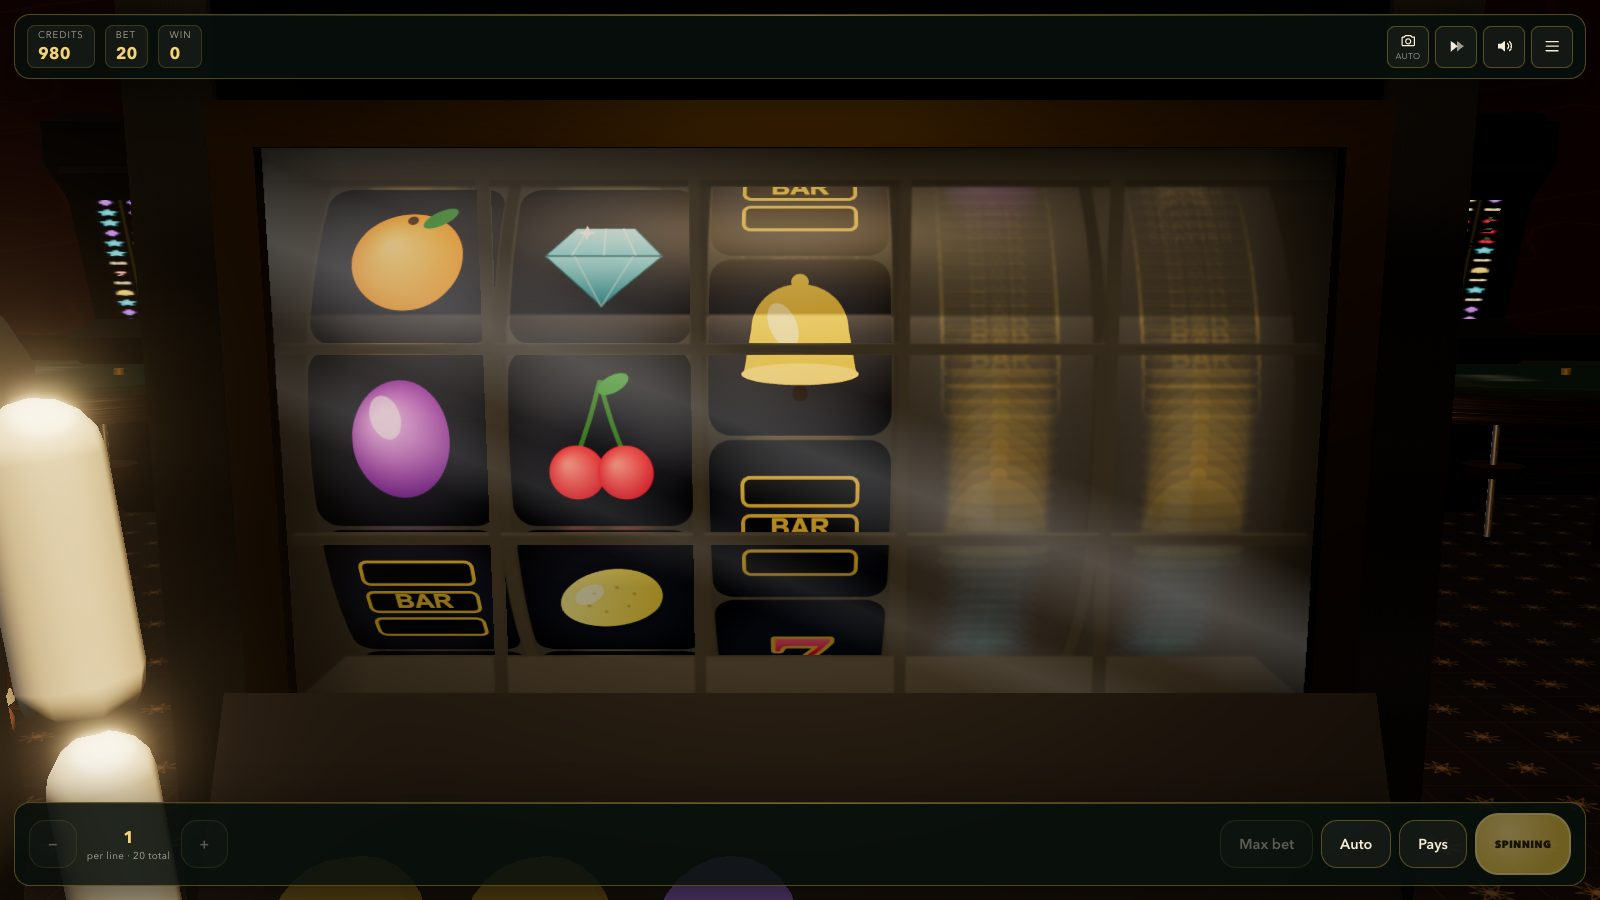
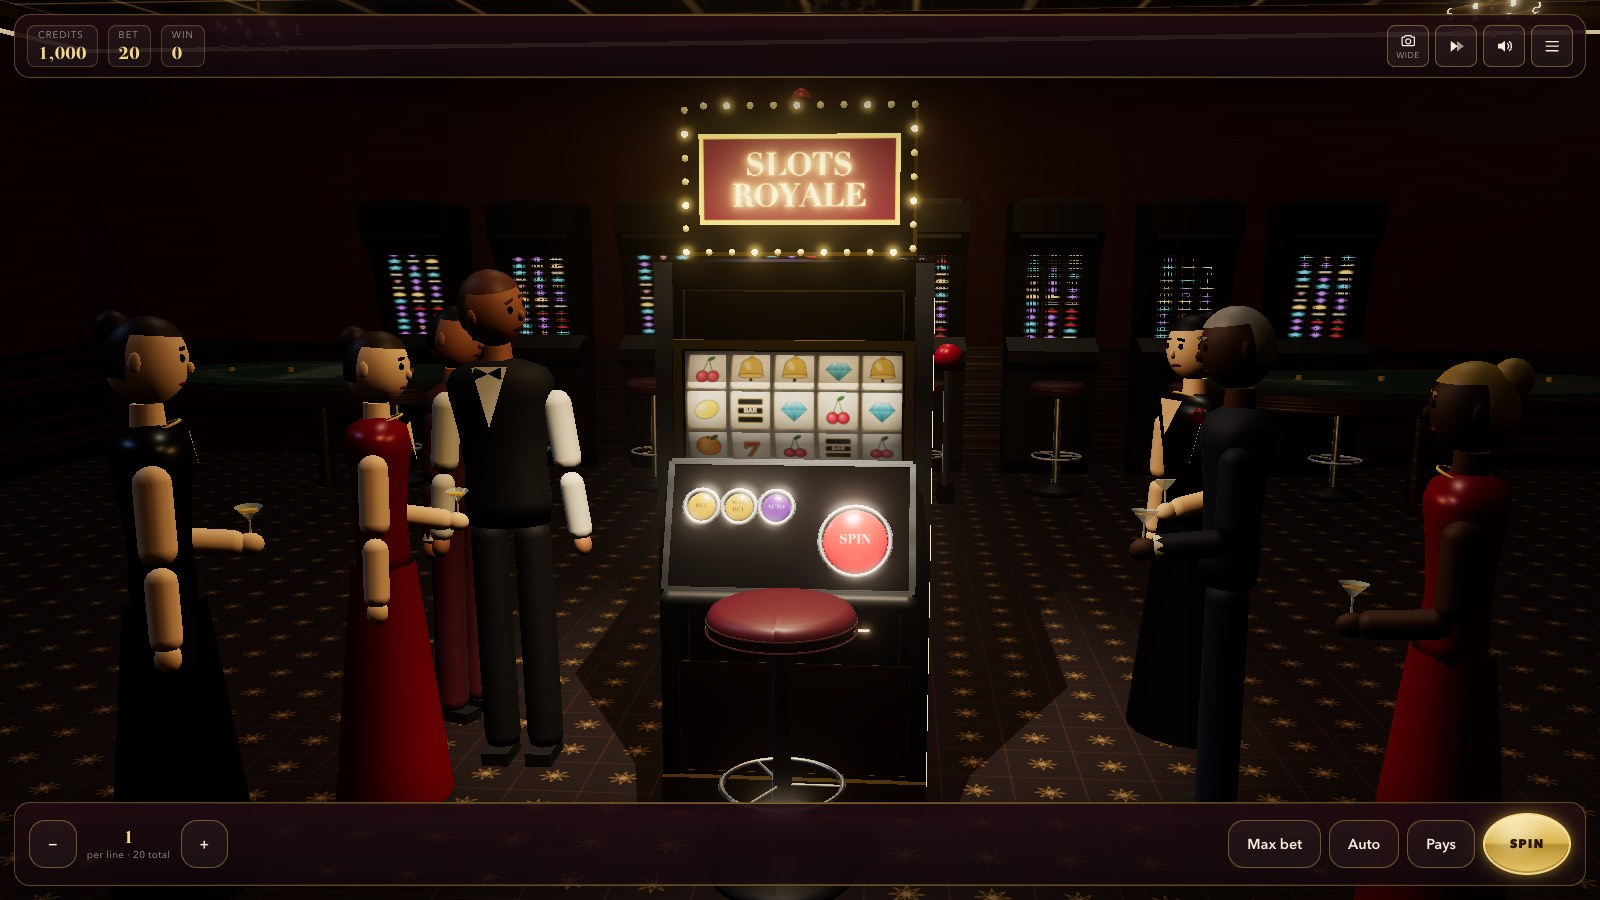
Update the Slots Royale card image
Slots Royale 1.4.0 opens wide on the whole cabinet with domed backlit
buttons and a proper leather stool, so the card's close-up of the old
dark reels is retaken from the new default view, and the introduction
no longer says the camera starts close on the reels.

diff --git a/CHANGELOG.md b/CHANGELOG.md
@@ -8,6 +8,7 @@ The format is based on [Keep a Changelog](https://keepachangelog.com/en/1.1.0/).
 
 ### Changed
 
+- The Slots Royale card has a fresh screenshot of the whole machine with its new domed buttons and leather stool, and its introduction says the camera now opens wide on the cabinet.
 - The Mustang Showroom card shows the car's new gunmetal paint and five-spoke wheels.
 - The Mustang Showroom card has a fresh screenshot of the spot-lit car and an introduction that now mentions the recorded V8, the amber turn signals, and the see-through part selection.
 - Every blog post now shares a 1200×630 social preview card made from its own image, so links on Facebook, LinkedIn, and X show the whole picture instead of cropping portrait, square, and small images.
